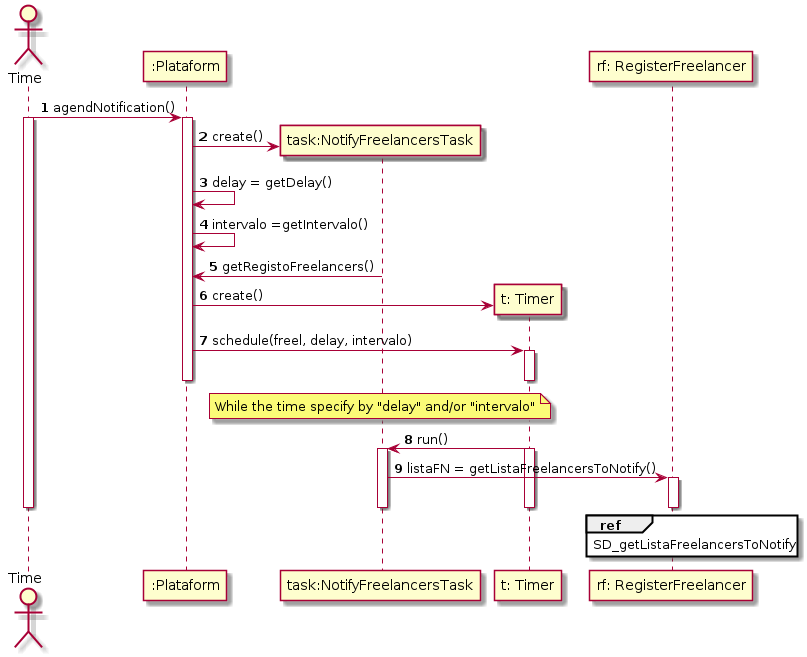
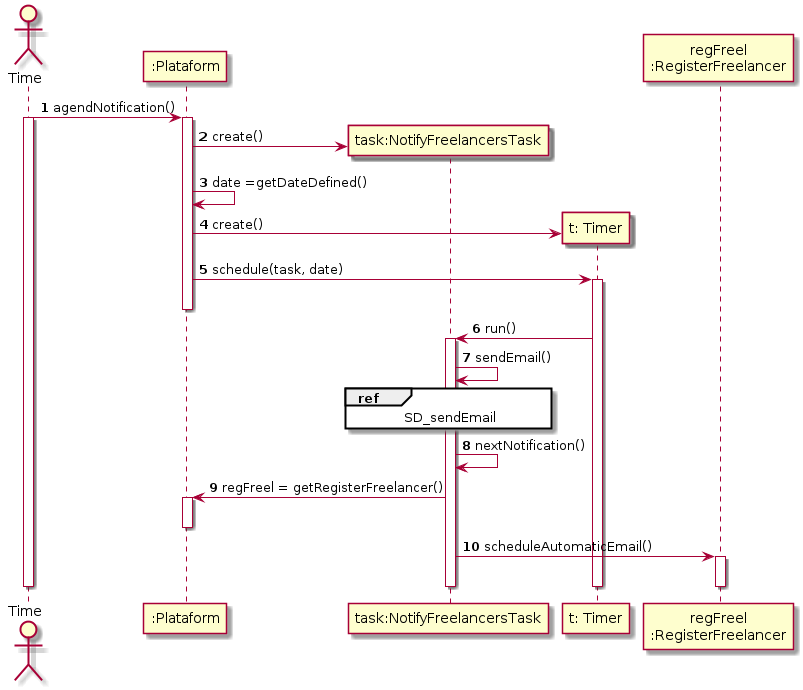
Change Racional, SD and CD [UC-10]

diff --git a/docs/UC10 - Notify delayed freelancers (automatically)/UC10 - Notify Delayed Freelancers.md b/docs/UC10 - Notify delayed freelancers (automatically)/UC10 - Notify Delayed Freelancers.md
@@ -78,12 +78,18 @@ The freelancer stays informed.
 |                                                        | ...starts the process of notification? | Timer | Timer |
 |                                                        | ...creates the instance Timer? | Plataform | Creator: Plataform as knowledge of the time to start the notifications. |
 | 2. The system identifies the freelancers that have mean task delay higher than 3 hours and have a percentage of delays higher than the overall percentage of delays. After that, starts the notification of the freelancers. | ...knows RegisterFreelancers? | Plataform | IE: Plataform contains RegisterFreelancer (HC + LC) |
-|  | ...knows the task delay? | TaskExecution | IE: Knows its own information |  
-|  | ...knows the percentage of delays? | TaskExecution | IE: knows its own information  |
-|  | ...knows the class TaskExecution? | RegisterTaskExecution | IE: Owns the class TaskExecution (HC + LC) |
+|  | ...knows the payment transaction list? | Organization | IE : in the MD Organizations has PaymentTransactionList |
+|  | ...knows the organization? | Platform | IE : in the MD Platform has Organization |
+|  | ...knows the each payment transaction? | PaymentTransactionList | IE: Owns the class PaymentTransaction (HC + LC) |
+|  | ...knows the task delay? | PaymentTransaction | IE: Knows its own information |  
+|  | ...knows the percentage of delays? | PaymentTransaction | IE: knows its own information  |
 |  | ...know the freelancers? | ListFreelancers | IE: Owns the class ListFreelancers (HC + LC) |
-|  | ...applys the requirements to know the right freelancers? | TaskExecution | IE: Knows its own information. |
-|  | ...saves the fit freelancers according with the requirements? | ListFreelancersToNotify | IE: Owns the class ListFreelancersToNotify (HC + LC) |
+|  |                          | PaymentTransactionList | IE : In the MD PaymentTransactionList has Freealancer |
+|  | ...knows the freelancer´s email? | Freelancer | IE: Owns his data |
+|  | ...schedules the next year´s notification? | RegisterFreelancer | IE |
+
+
+
 
 
 ### Systematization ##
@@ -91,15 +97,17 @@ The freelancer stays informed.
  From the racional results the conceptual classes promoted to software classes are : 
  
  * Plataform
- * TaskExecution
+ * PaymentTransaction
+ * Organization
+ * Freelancer
 
  The other software classes (i.e. Pure Fabrication) identify:
 
  * NotifyFreelancersTask
  * Timer
  * ListFreelancers
- * ListFreelancersToNotify
- * RegisterTaskExecution
+ * RegisterFreelancer
+ * PaymentTransactionList
 
 
 ###     Sequence Diagram
